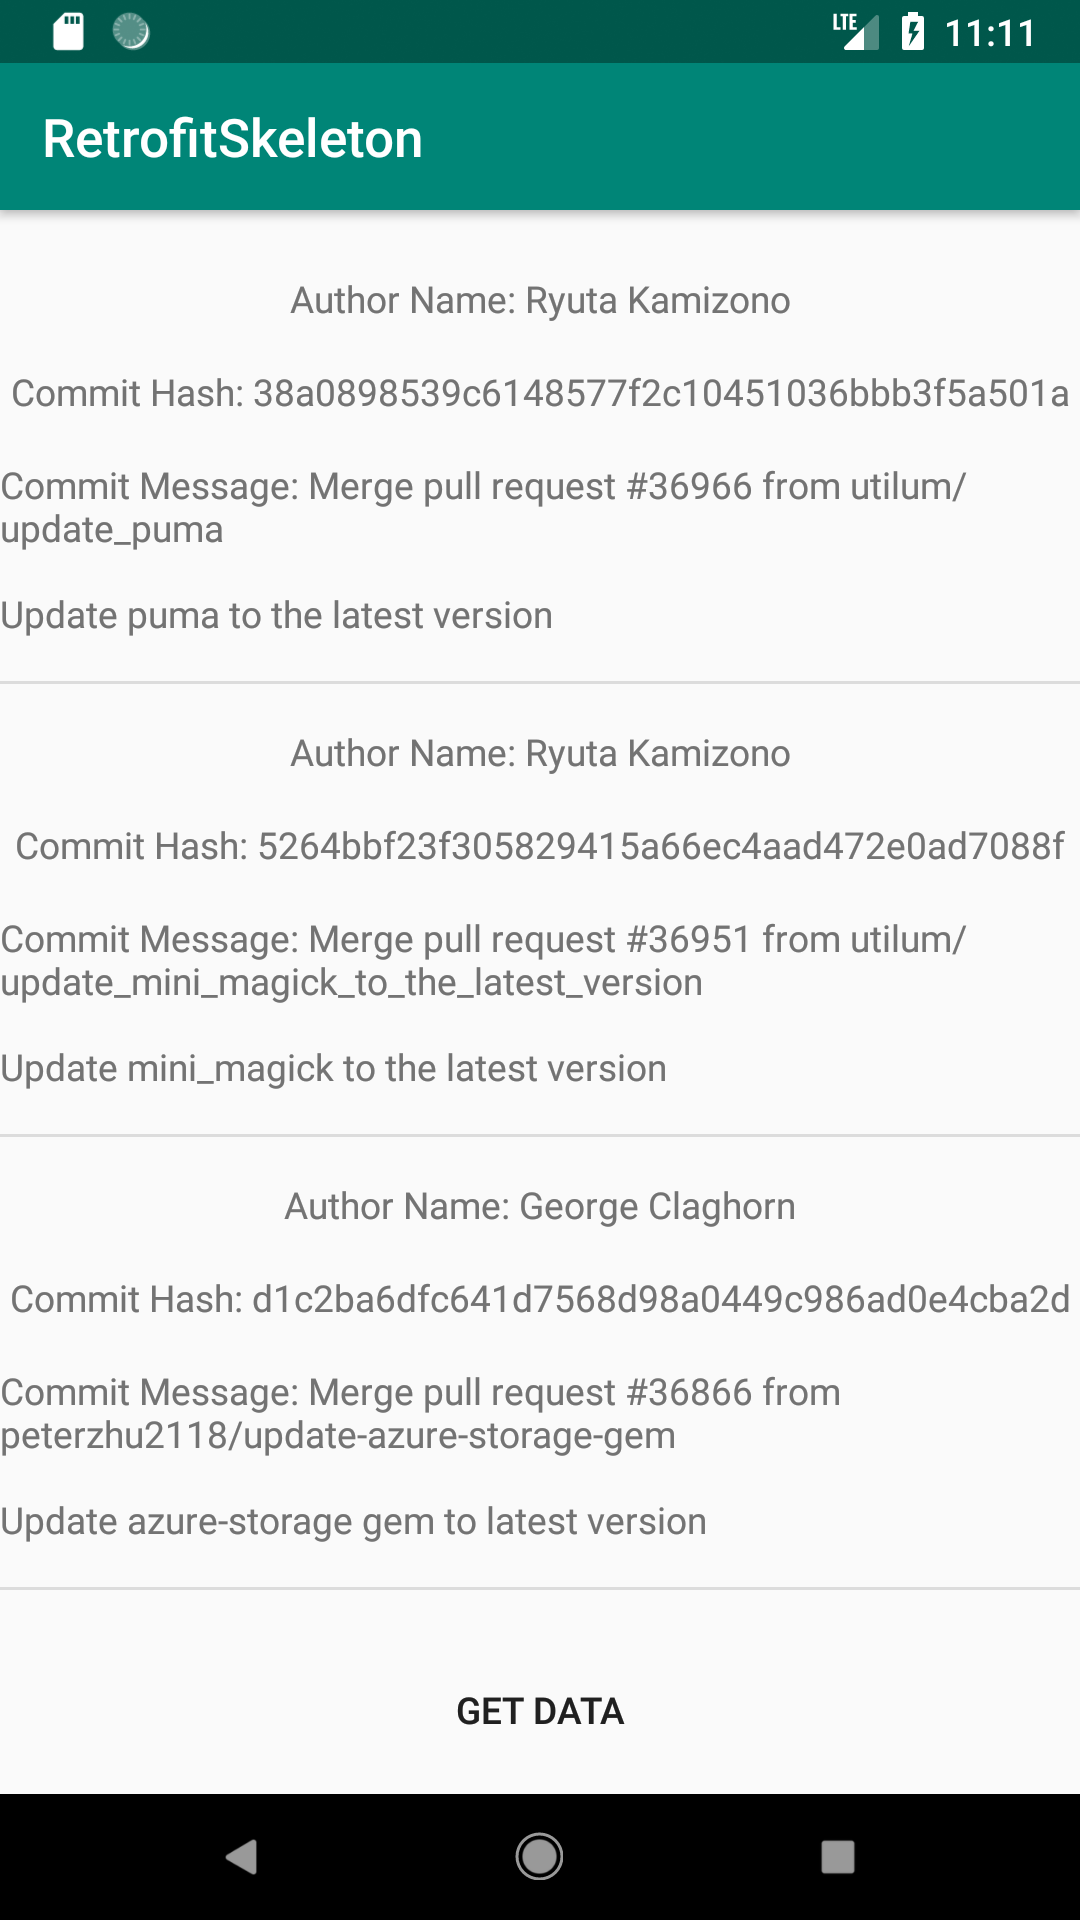
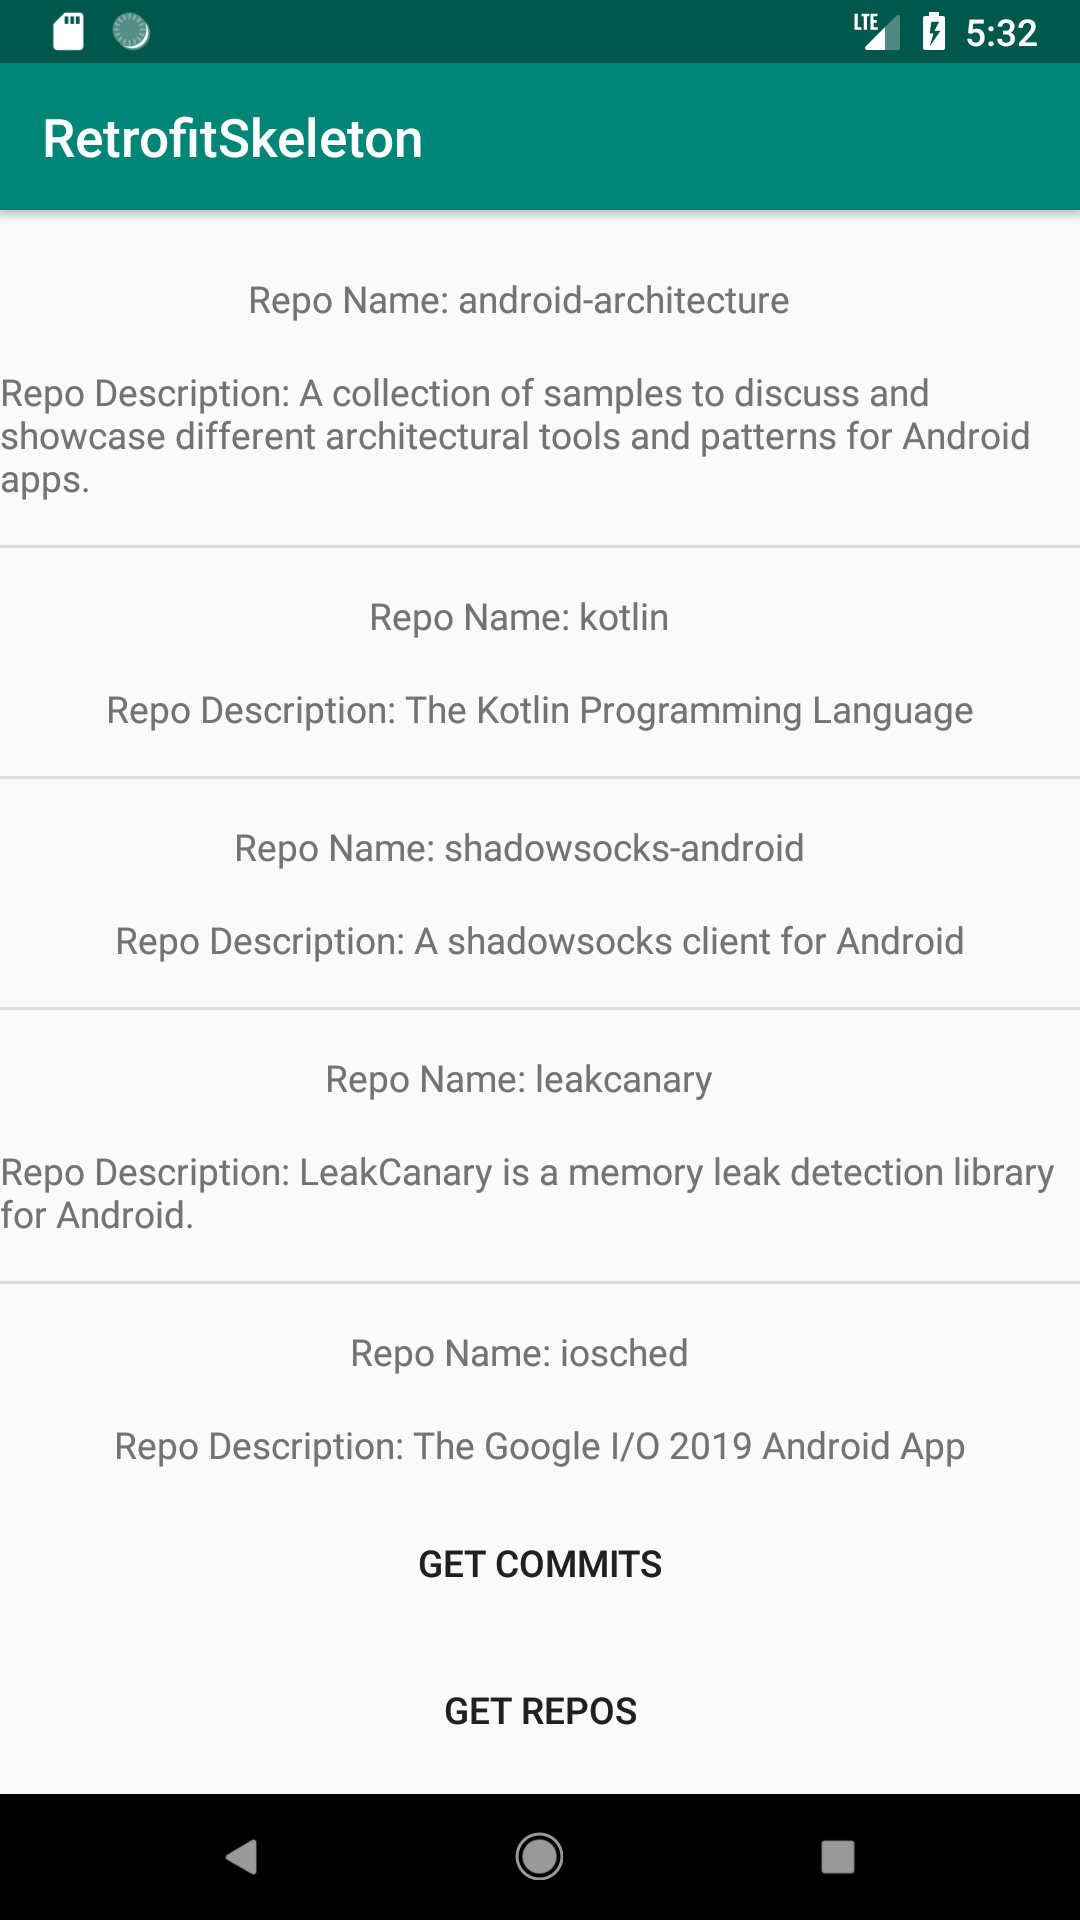
Retrofit Skeleton
- Using multiple view types

diff --git a/27_RetrofitSkeleton/app/src/main/java/com/justfabcodes/retrofit_skeleton/ui/MainActivity.kt b/27_RetrofitSkeleton/app/src/main/java/com/justfabcodes/retrofit_skeleton/ui/MainActivity.kt
@@ -1,16 +1,16 @@
 package com.justfabcodes.retrofit_skeleton.ui
 
 import android.os.Bundle
-import android.view.View
 import androidx.appcompat.app.AppCompatActivity
 import androidx.lifecycle.Observer
 import androidx.lifecycle.ViewModelProviders
 import androidx.recyclerview.widget.DividerItemDecoration
 import androidx.recyclerview.widget.LinearLayoutManager
 import com.justfabcodes.retrofit_skeleton.R
-import com.justfabcodes.retrofit_skeleton.models.CommitData
-import com.justfabcodes.retrofit_skeleton.network.GetRepositoryCommand
+import com.justfabcodes.retrofit_skeleton.models.RepoData
+import com.justfabcodes.retrofit_skeleton.network.GetCommitsCommand
 import com.justfabcodes.retrofit_skeleton.util.NetworkUtil
+import com.justfabcodes.retrofit_skeleton.util.toggleVisibility
 import com.justfabcodes.retrofit_skeleton.viewmodel.MainActivityViewModel
 import kotlinx.android.synthetic.main.activity_main.*
 import kotlinx.coroutines.CoroutineScope
@@ -18,7 +18,7 @@ import kotlinx.coroutines.Dispatchers
 
 class MainActivity : AppCompatActivity() {
 
-    private val getRepoCommand = GetRepositoryCommand()
+    private val getRepoCommand = GetCommitsCommand()
     private val uiScope = CoroutineScope(Dispatchers.Main)
     private lateinit var viewModel: MainActivityViewModel
 
@@ -32,10 +32,10 @@ class MainActivity : AppCompatActivity() {
 
     private fun initViews() {
         repositories.layoutManager = LinearLayoutManager(this)
-        repositories.adapter = RepoAdapter(CommitData(emptyList()))
+        repositories.adapter = RepoAdapter(RepoData(mutableListOf()))
         repositories.addItemDecoration(DividerItemDecoration(this, LinearLayoutManager.VERTICAL))
 
-        getData.setOnClickListener {
+        getCommits.setOnClickListener {
             if (NetworkUtil.isNetworkConnected(this@MainActivity)) {
                 /*
                     Coroutines recipes https://proandroiddev.com/android-coroutine-recipes-33467a4302e9
@@ -45,22 +45,29 @@ class MainActivity : AppCompatActivity() {
 
                     uiScope.launch {
                     val result = withContext(Dispatchers.Default) {
-                        getRepoCommand.getRepositories()
+                        getRepoCommand.getCommits()
                     }
                     (repositories.adapter as RepoAdapter).updateDataSet(result)
 
                     OR
 
                     val result2 = async {
-                        getRepoCommand.getRepositories()
+                        getRepoCommand.getCommits()
                     }
                     (repositories.adapter as RepoAdapter).updateDataSet(result2.await())
 
                 }
                  */
 
-                progressBar.visibility = View.VISIBLE
+                progressBar.toggleVisibility()
                 viewModel.updateCommitList()
+            }
+        }
+
+        getRepos.setOnClickListener {
+            if (NetworkUtil.isNetworkConnected(this@MainActivity)) {
+                progressBar.toggleVisibility()
+                viewModel.updateReposList()
             }
         }
     }
@@ -69,9 +76,15 @@ class MainActivity : AppCompatActivity() {
         viewModel = ViewModelProviders.of(this).get(MainActivityViewModel::class.java)
 
         viewModel.commits.observe(this, Observer { commitData ->
-            progressBar.visibility = View.GONE
+            progressBar.toggleVisibility()
 
             (repositories.adapter as RepoAdapter).updateDataSet(commitData)
+        })
+
+        viewModel.repos.observe(this, Observer { reposData ->
+            progressBar.toggleVisibility()
+
+            (repositories.adapter as RepoAdapter).updateDataSet(reposData)
         })
     }
 }

diff --git a/27_RetrofitSkeleton/app/src/main/java/com/justfabcodes/retrofit_skeleton/ui/RepoAdapter.kt b/27_RetrofitSkeleton/app/src/main/java/com/justfabcodes/retrofit_skeleton/ui/RepoAdapter.kt
@@ -5,27 +5,47 @@ import android.view.View
 import android.view.ViewGroup
 import androidx.recyclerview.widget.RecyclerView
 import com.justfabcodes.retrofit_skeleton.R
-import com.justfabcodes.retrofit_skeleton.models.CommitData
 import com.justfabcodes.retrofit_skeleton.models.Item
-import kotlinx.android.synthetic.main.recycler_view_item.view.*
+import com.justfabcodes.retrofit_skeleton.models.RepoData
+import kotlinx.android.synthetic.main.recycler_view_commit_item.view.*
+import kotlinx.android.synthetic.main.recycler_view_repo_item.view.*
 
-class RepoAdapter(private val repoList: CommitData) : RecyclerView.Adapter<RepoAdapter.ViewHolder>() {
+class RepoAdapter(private val repoList: RepoData) : RecyclerView.Adapter<RepoAdapter.ViewHolder>() {
+
+    private val COMMIT_VIEW_TYPE = 0
+    private val REPO_VIEW_TYPE = 1
 
     override fun onCreateViewHolder(parent: ViewGroup, viewType: Int): ViewHolder {
-        val view = LayoutInflater.from(parent.context).inflate(R.layout.recycler_view_item, parent, false)
+        val layoutId = if (viewType == COMMIT_VIEW_TYPE) R.layout.recycler_view_commit_item else R.layout.recycler_view_repo_item
+        val view = LayoutInflater.from(parent.context).inflate(layoutId, parent, false)
         return ViewHolder(view)
     }
 
     override fun onBindViewHolder(holder: ViewHolder, position: Int) {
-        holder.bindViewHolder(repoList.items[position])
+        when(getItemViewType(position)) {
+            COMMIT_VIEW_TYPE -> holder.bindCommit(repoList.items[position])
+            REPO_VIEW_TYPE -> holder.bindRepo(repoList.items[position])
+        }
     }
 
     override fun getItemCount(): Int {
         return repoList.items.size
     }
 
-    fun updateDataSet(data: CommitData) {
-        repoList.items = data.items
+    /**
+     * This method is called before [onCreateViewHolder] and the logic inside determines which layout to inflate
+     */
+    override fun getItemViewType(position: Int): Int {
+        if (!repoList.items[position].name.isNullOrEmpty()) {
+            return REPO_VIEW_TYPE
+        } else {
+            return COMMIT_VIEW_TYPE
+        }
+    }
+
+    fun updateDataSet(data: RepoData) {
+        repoList.items.clear()
+        repoList.items.addAll(data.items)
         notifyDataSetChanged()
     }
 
@@ -37,11 +57,18 @@ class RepoAdapter(private val repoList: CommitData) : RecyclerView.Adapter<RepoA
      */
     class ViewHolder(view: View) : RecyclerView.ViewHolder(view) {
 
-        fun bindViewHolder(item: Item) {
+        fun bindCommit(item: Item) {
             with(itemView) { // the view object in the constructor can be accessed via the itemView property
                 itemCommitHash.text = context.getString(R.string.commit_hash_text, item.commitHash)
                 itemAuthorName.text = context.getString(R.string.author_name_text, item.commit?.author?.name)
                 itemCommitMessage.text = context.getString(R.string.commit_message_text, item.commit?.commitMessage)
+            }
+        }
+
+        fun bindRepo(item: Item) {
+            with(itemView) { // the view object in the constructor can be accessed via the itemView property
+                itemRepoName.text = context.getString(R.string.repo_name_text, item.name)
+                itemRepoDescription.text = context.getString(R.string.repo_description_text, item.description)
             }
         }
     }

diff --git a/27_RetrofitSkeleton/app/src/main/java/com/justfabcodes/retrofit_skeleton/viewmodel/MainActivityViewModel.kt b/27_RetrofitSkeleton/app/src/main/java/com/justfabcodes/retrofit_skeleton/viewmodel/MainActivityViewModel.kt
@@ -2,20 +2,33 @@ package com.justfabcodes.retrofit_skeleton.viewmodel
 
 import androidx.lifecycle.MutableLiveData
 import androidx.lifecycle.ViewModel
-import com.justfabcodes.retrofit_skeleton.models.CommitData
-import com.justfabcodes.retrofit_skeleton.network.GetRepositoryCommand
+import com.justfabcodes.retrofit_skeleton.models.RepoData
+import com.justfabcodes.retrofit_skeleton.network.GetCommitsCommand
+import com.justfabcodes.retrofit_skeleton.network.GetRepositoriesCommand
 import kotlinx.coroutines.CoroutineScope
 import kotlinx.coroutines.Dispatchers
 import kotlinx.coroutines.launch
 
 class MainActivityViewModel : ViewModel() {
 
-    val commits = MutableLiveData<CommitData>()
+    var commits: MutableLiveData<RepoData>
+    var repos : MutableLiveData<RepoData>
     private val backgroundScope = CoroutineScope(Dispatchers.Default)
+
+    init {
+        commits = MutableLiveData()
+        repos = MutableLiveData()
+    }
 
     fun updateCommitList() {
         backgroundScope.launch {
-            commits.postValue(GetRepositoryCommand().getRepositories())
+            commits.postValue(GetCommitsCommand().getCommits())
+        }
+    }
+
+    fun updateReposList() {
+        backgroundScope.launch {
+            repos.postValue(GetRepositoriesCommand().getRepositories())
         }
     }
 

diff --git a/27_RetrofitSkeleton/app/src/main/java/com/justfabcodes/retrofit_skeleton/api/GithubService.kt b/27_RetrofitSkeleton/app/src/main/java/com/justfabcodes/retrofit_skeleton/api/GithubService.kt
@@ -1,12 +1,15 @@
 package com.justfabcodes.retrofit_skeleton.api
 
-import com.justfabcodes.retrofit_skeleton.models.CommitData
+import com.justfabcodes.retrofit_skeleton.models.RepoData
 import retrofit2.http.GET
 
 interface GithubService {
 
     // Query the github api for commits containing the word update from the rails/rails repo
     @GET("/search/commits?q=repo:rails/rails+update")
-    suspend fun retrieveCommits(): CommitData
+    suspend fun retrieveCommits(): RepoData
+
+    @GET("/search/repositories?q=language:kotlin&sort=stars&order=desc")
+    suspend fun searchRepositories(): RepoData
 
 }

diff --git a/27_RetrofitSkeleton/app/src/main/java/com/justfabcodes/retrofit_skeleton/models/Response.kt b/27_RetrofitSkeleton/app/src/main/java/com/justfabcodes/retrofit_skeleton/models/Response.kt
@@ -2,13 +2,19 @@ package com.justfabcodes.retrofit_skeleton.models
 
 import com.google.gson.annotations.SerializedName
 
-data class CommitData(var items: List<Item>)
+data class RepoData(val items: MutableList<Item>)
 
 data class Item(
     val id: Long?,
+
+    //Commits
     val commit: Commit?,
     @SerializedName("sha")
-    val commitHash: String?
+    val commitHash: String?,
+
+    //Repos
+    val name: String?,
+    val description: String
 )
 
 data class Commit(

diff --git a/27_RetrofitSkeleton/app/src/main/java/com/justfabcodes/retrofit_skeleton/network/GetCommitsCommand.kt b/27_RetrofitSkeleton/app/src/main/java/com/justfabcodes/retrofit_skeleton/network/GetCommitsCommand.kt
@@ -1,11 +1,11 @@
 package com.justfabcodes.retrofit_skeleton.network
 
 import com.justfabcodes.retrofit_skeleton.api.Service
-import com.justfabcodes.retrofit_skeleton.models.CommitData
+import com.justfabcodes.retrofit_skeleton.models.RepoData
 
-class GetRepositoryCommand {
+class GetCommitsCommand {
 
-    suspend fun getRepositories(): CommitData {
+    suspend fun getCommits(): RepoData {
         return Service.githubService.retrieveCommits()
     }
 

diff --git a/27_RetrofitSkeleton/app/src/main/java/com/justfabcodes/retrofit_skeleton/network/GetRepositoriesCommand.kt b/27_RetrofitSkeleton/app/src/main/java/com/justfabcodes/retrofit_skeleton/network/GetRepositoriesCommand.kt
@@ -1,0 +1,12 @@
+package com.justfabcodes.retrofit_skeleton.network
+
+import com.justfabcodes.retrofit_skeleton.api.Service
+import com.justfabcodes.retrofit_skeleton.models.RepoData
+
+class GetRepositoriesCommand {
+
+    suspend fun getRepositories(): RepoData {
+        return Service.githubService.searchRepositories()
+    }
+
+}

diff --git a/27_RetrofitSkeleton/app/src/main/java/com/justfabcodes/retrofit_skeleton/util/ViewExt.kt b/27_RetrofitSkeleton/app/src/main/java/com/justfabcodes/retrofit_skeleton/util/ViewExt.kt
@@ -1,0 +1,8 @@
+package com.justfabcodes.retrofit_skeleton.util
+
+import android.view.View
+import androidx.core.view.isVisible
+
+fun View.toggleVisibility() {
+    visibility = if (isVisible) View.GONE else View.VISIBLE
+}
